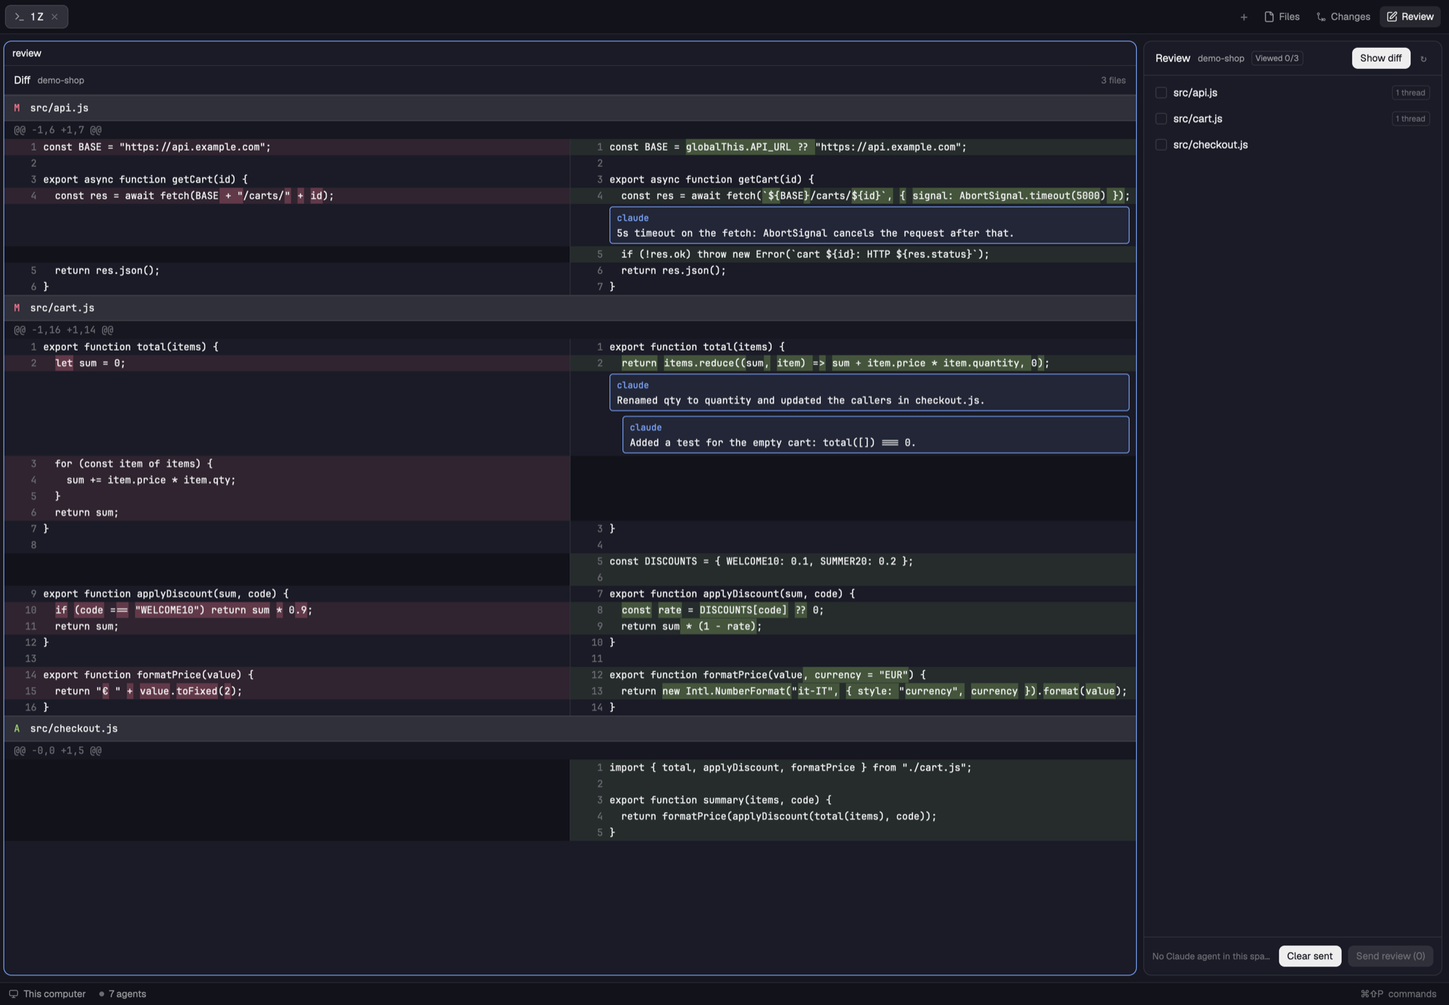
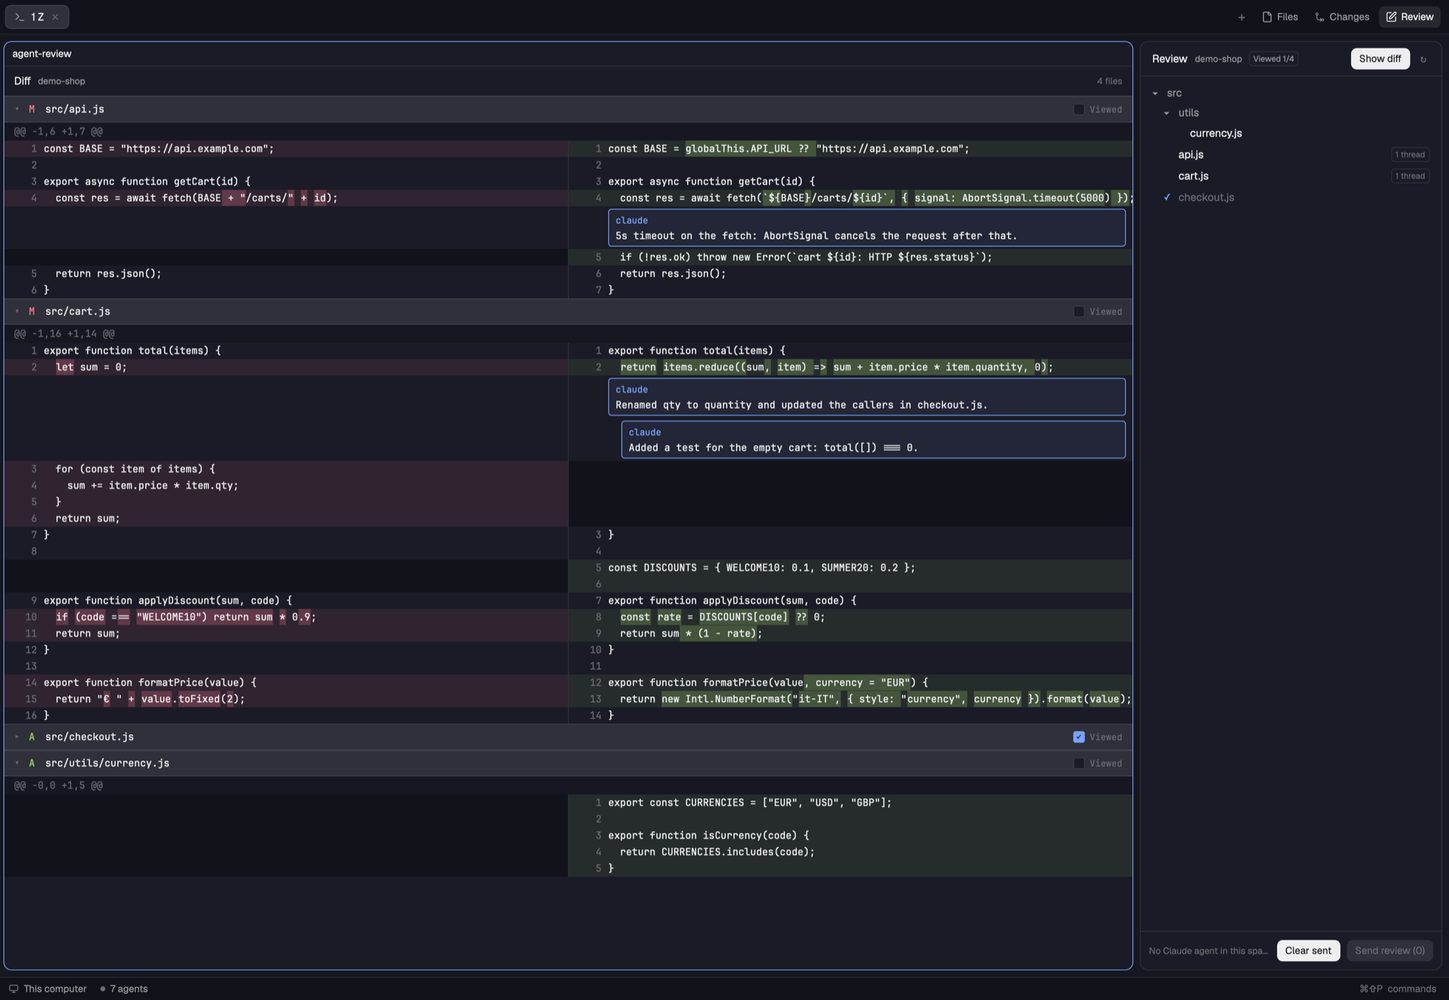
feat: fold viewed files in the diff and show the panel as a tree
Diff file headers get a fold toggle and a Viewed checkbox at the right
end. Viewed files start folded, like on GitLab; clicking the header
folds or unfolds a file until its Viewed state changes.

The panel lists changed files as a collapsible folder tree, with a
check mark on viewed files instead of a checkbox.

Panel tags restored to English ("only this", "N unsent", "N threads"),
RECIPE/README updated for the new behavior and preview.png recaptured.

diff --git a/mods/agent-review/main.js b/mods/agent-review/main.js
@@ -15,6 +15,7 @@ const key = () => JSON.stringify(location());
 const base = (p) => p.split("/").pop();
 // Viewed holds while the file's "index a..b" line is the one saved.
 const fp = (f) => f.index ?? "-";
+const VIEWED_W = 90; // right end of a diff file header: the Viewed checkbox
 // Uncommitted changes vs HEAD (empty tree without commits) plus untracked files, as one unified diff.
 // The flags keep git from writing under .git, or the folder watch would trigger itself.
 const R = "--no-optional-locks -c core.fsmonitor=false -c diff.autoRefreshIndex=false";
@@ -55,7 +56,7 @@ export default class Review extends View {
   // Diff pane: {view: "diff", root}. Rows are a flat list of items (file | sep | row) for one virtual list.
   initDiff(props, cx) {
     this.view = "diff"; this.root = props.root; this.files = []; this.items = []; this.sizes = []; this.gen = 0; this.wd = new Map();
-    this.scroll = VirtualListScrollHandle.new(); this.fh = cx.focus_handle(); this.textW = 0; this.composer = null; this.sel = null;
+    this.scroll = VirtualListScrollHandle.new(); this.fh = cx.focus_handle(); this.textW = 0; this.composer = null; this.sel = null; this.flip = new Map();
     this.ta = TextareaState.new({ placeholder: "Comment…", rows: 4 });
     this.ta.on("submit", (e, cx) => e.secondary && this.saveComposer(cx));
     this.gotoN = Date.now() - 5000; // a goto set just before this pane opened still applies
@@ -139,7 +140,8 @@ export default class Review extends View {
         r ? (near[r.key] ??= []).push(th) : orphans.push(th);
       }
       delete byFile[f.path];
-      push({ kind: "file", key: f.path, file: f.path, f }, 32);
+      push({ kind: "file", key: f.path, file: f.path, f, shut: this.shut(f, st) }, 32);
+      if (this.items.at(-1).shut) continue;
       for (const r of rows) {
         push({ ...r, file: f.path }, r.kind === "sep" ? 22 : 20);
         for (const th of near[r.key] ?? []) thread(th);
@@ -150,6 +152,9 @@ export default class Review extends View {
     const rest = Object.values(byFile).flat().filter(th => !scope || th[0].file === scope);
     if (rest.length) { push({ kind: "sep", key: "#orphans", text: "Comments on files no longer in the diff" }, 22); rest.forEach(th => thread(th, true)); }
   }
+
+  // Viewed files start collapsed, like GitLab; a click on the header flips that until Viewed changes.
+  shut(f, st) { const seen = st.viewed?.[f.path] === fp(f); return this.flip.get(f.path) === seen ? !seen : seen; }
 
   diffItem(it, t, st) {
     const tag = (text, color) => div().px(4).rounded(4).border_1().border_color(t.border).text_size(10).text_color(color).child(text);
@@ -176,12 +181,16 @@ export default class Review extends View {
         .child(Textarea.new(this.ta).h(80)), it.h);
     }
     if (it.kind === "file") {
-      const f = it.f, [letter, color] = { added: ["A", t.ansi2], deleted: ["D", t.ansi1], renamed: ["R", t.accent] }[f.status] ?? ["M", t.blocked];
+      const f = it.f, seen = st.viewed?.[f.path] === fp(f), [letter, color] = { added: ["A", t.ansi2], deleted: ["D", t.ansi1], renamed: ["R", t.accent] }[f.status] ?? ["M", t.blocked];
       return h_flex().w_full().h(32).px(12).gap(8).items_center().bg(t.raised).border_t(1).border_b(1).border_color(t.border)
+        .child(div().w(10).flex_none().text_color(t.dim).child(it.shut ? "▸" : "▾"))
         .child(div().w(12).flex_none().text_color(color).child(letter))
         .child(div().flex_1().min_w(0).truncate().font_semibold().child(f.status === "renamed" ? `${f.oldPath} → ${f.path}` : f.path))
         .when(f.binary, e => e.child(tag("binary", t.dim)))
-        .when(st.viewed?.[f.path] === fp(f), e => e.child(tag("✓ Viewed", t.accent)));
+        .child(h_flex().w(VIEWED_W - 12).flex_none().gap(6).items_center().justify_end().text_size(11).text_color(t.dim)
+          .child(div().w(14).h(14).flex().items_center().justify_center().rounded(3).border_1().border_color(seen ? t.accent : t.input)
+            .bg(seen ? t.accent : t.background).text_size(10).text_color(t.accent_foreground).child(seen ? "✓" : ""))
+          .child("Viewed"));
     }
     if (it.kind === "sep") return div().w_full().h(22).px(12).flex().items_center().bg(t.canvas).text_color(t.dim).child(div().min_w(0).truncate().child(it.text));
     const { left: l, right: r } = it, k = l?.type === "-" && r?.type === "+" && `${l.text}\0${r.text}`;
@@ -199,7 +208,7 @@ export default class Review extends View {
 
   renderDiff() {
     const t = theme(), st = shared(`review:${this.root}`) ?? {}, scope = st.scope ?? null;
-    const built = `${this.gen}:${scope}:${this.textW}:${JSON.stringify(st.comments ?? {})}:${JSON.stringify(this.composer)}`;
+    const built = `${this.gen}:${scope}:${this.textW}:${JSON.stringify(st.comments ?? {})}:${JSON.stringify(this.composer)}:${JSON.stringify(st.viewed ?? {})}:${JSON.stringify([...this.flip])}`;
     if (this.built !== built) this.build(st, built);
     const g = shared("review.goto");
     if (g?.root === this.root && g.n > this.gotoN) {
@@ -210,14 +219,14 @@ export default class Review extends View {
     const status = this.error ?? (this.raw === undefined ? "Loading…" : !count ? "No changes" : null);
     return v_flex().id("review-diff").size_full().min_h(0).bg(t.background).text_color(t.foreground).text_size(13)
       .track_focus(this.fh).on_key_down((e, cx) => this.diffKey(e, cx))
-      .on_size_change((s, cx) => { const w = Math.floor((s.width - 1) / 2) - 74; if (w !== this.textW) { this.textW = w; cx.notify(); } })
+      .on_size_change((s, cx) => { this.paneW = s.width; const w = Math.floor((s.width - 1) / 2) - 74; if (w !== this.textW) { this.textW = w; cx.notify(); } })
       .child(h_flex().h(36).flex_none().px(12).gap(8).items_center().border_b(1).border_color(t.border)
         .child(div().font_semibold().child("Diff"))
         .child(div().min_w(0).truncate().text_size(11).text_color(t.muted).child(base(this.root ?? "")))
         .when(Boolean(scope), e => e.child(div().px(4).rounded(4).border_1().border_color(t.border).text_size(10).text_color(t.accent).child(`only ${scope}`)))
         .child(div().flex_1())
         .child(div().text_size(11).text_color(t.dim).child(`${count} ${count === 1 ? "file" : "files"}`)))
-      .child(div().flex_1().min_h(0).relative().font_family(settings().font_family ?? "JetBrains Mono").text_size(12)
+      .child(div().flex_1().min_h(0).relative().on_mouse_down("left", (e) => { this.down = e.local_position.x > (e.bounds?.width ?? this.paneW ?? Infinity) - VIEWED_W; }).font_family(settings().font_family ?? "JetBrains Mono").text_size(12)
         .child(v_virtual_list("review-diff-list", this.items.length, this.sizes, (i) => this.items[i].key,
           (range) => this.items.slice(range.start, range.end).map(it => this.diffItem(it, t, st))).track_scroll(this.scroll).size_full()
           .on_item_click((key, cx) => this.itemClick(key, null, cx)).on_item_secondary_click((key, e, cx) => this.itemClick(key, e, cx)))
@@ -230,6 +239,13 @@ export default class Review extends View {
   itemClick(key, e, cx) {
     const it = this.items.find(x => x.key === key);
     if (!it || it.kind === "composer") return;
+    if (it.kind === "file") {
+      if (e) return;
+      if (this.down) return this.toggleViewed(it.f);
+      const seen = (this.store().viewed ?? {})[it.file] === fp(it.f);
+      this.flip.get(it.file) === seen ? this.flip.delete(it.file) : this.flip.set(it.file, seen);
+      return cx.notify();
+    }
     if (it.kind === "comment") {
       if (e) return;
       if (this.sel === it.c.id && !this.composer) return this.openComposer(cx, { reply: it.c });
@@ -399,19 +415,32 @@ export default class Review extends View {
       .bg(on ? t.solid : t.raised).text_color(on ? t.solid_foreground : t.dim).when(on, e => e.cursor_pointer().hover(s => s.opacity(0.88)))
       .on_click((_e, cx) => on && action(cx)).child(text);
     const tag = (text, color) => div().px(4).rounded(4).border_1().border_color(t.border).text_size(10).text_color(color).child(text);
-    const file = (path) => {
+    const file = (path, depth) => {
       const f = this.files.find(x => x.path === path), on = f && st.viewed?.[path] === fp(f);
       const count = threads.filter(th => th[0].file === path).length, todo = pend.filter(c => c.file === path).length;
-      return v_flex().gap(2).pb(6)
-        .child(h_flex().id(`f-${path}`).h(26).px(6).gap(8).items_center().rounded(6).when(Boolean(f), e => e.cursor_pointer().hover(s => s.bg(t.hover)))
-          .when(this.current === path, e => e.bg(t.selected)).on_click((e, cx) => f && (e.click_count === 2 ? this.save({ ...this.store(), scope: st.scope === path ? null : path }) : this.open(path, cx)))
-          .child(div().id(`v-${path}`).w(14).h(14).flex_none().on_click((_e, cx) => { cx.stop_propagation(); f && this.toggleViewed(f); }).flex().items_center().justify_center().rounded(3).border_1().border_color(on ? t.accent : t.input)
-            .bg(on ? t.accent : t.background).text_size(10).text_color(t.accent_foreground).child(on ? "✓" : ""))
-          .child(div().flex_1().min_w(0).truncate().text_color(on ? t.dim : t.foreground).child(path))
-          .when(st.scope === path, e => e.child(tag("only this", t.accent)))
-          .when(todo > 0, e => e.child(tag(`${todo} unsent`, t.blocked)))
-          .when(!todo && count > 0, e => e.child(tag(`${count} ${count === 1 ? "thread" : "threads"}`, t.dim))));
+      return h_flex().id(`f-${path}`).h(26).pl(6 + 14 * depth).pr(6).gap(6).items_center().rounded(6).when(Boolean(f), e => e.cursor_pointer().hover(s => s.bg(t.hover)))
+        .when(this.current === path, e => e.bg(t.selected)).on_click((e, cx) => f && (e.click_count === 2 ? this.save({ ...this.store(), scope: st.scope === path ? null : path }) : this.open(path, cx)))
+        .child(div().w(12).flex_none().text_size(11).text_color(t.accent).child(on ? "✓" : ""))
+        .child(div().flex_1().min_w(0).truncate().text_color(on ? t.dim : t.foreground).child(base(path)))
+        .when(st.scope === path, e => e.child(tag("only this", t.accent)))
+        .when(todo > 0, e => e.child(tag(`${todo} unsent`, t.blocked)))
+        .when(!todo && count > 0, e => e.child(tag(`${count} ${count === 1 ? "thread" : "threads"}`, t.dim)));
     };
+    const dir = (name, path, depth, shut) => h_flex().id(`d-${path}`).h(24).pl(6 + 14 * depth).pr(6).gap(6).items_center().rounded(6)
+      .cursor_pointer().hover(s => s.bg(t.hover)).text_color(t.muted)
+      .on_click((_e, cx) => { this.closed ??= new Set(); this.closed.has(path) ? this.closed.delete(path) : this.closed.add(path); cx.notify(); })
+      .child(div().w(12).flex_none().text_size(11).child(shut ? "▸" : "▾")).child(div().flex_1().min_w(0).truncate().child(name));
+    const root = {}, rows = [];
+    for (const path of paths) { let n = root; const parts = path.split("/"); for (const d of parts.slice(0, -1)) n = n[`${d}/`] ??= {}; n[parts.at(-1)] = path; }
+    const walk = (n, depth, pre) => {
+      for (const k of Object.keys(n).sort((a, b) => b.endsWith("/") - a.endsWith("/") || a.localeCompare(b))) {
+        if (!k.endsWith("/")) { rows.push(file(n[k], depth)); continue; }
+        const shut = Boolean(this.closed?.has(pre + k));
+        rows.push(dir(k.slice(0, -1), pre + k, depth, shut));
+        if (!shut) walk(n[k], depth + 1, pre + k);
+      }
+    };
+    walk(root, 0, "");
     const status = this.error ?? (!this.root ? "No repository" : this.raw === undefined ? "Loading…" : !paths.length ? "No changes" : null);
     return v_flex().id("review").size_full().min_h(0).rounded(10).overflow_hidden().bg(t.background).border_1().border_color(t.border).text_color(t.foreground).text_size(13)
       .child(h_flex().h(42).flex_none().px(14).gap(8).items_center().border_b(1).border_color(t.border)
@@ -421,7 +450,7 @@ export default class Review extends View {
         .child(div().flex_1())
         .when(Boolean(this.root), e => e.child(button("diff", this.diffPane() ? "Show diff" : "Open diff", !this.busy, cx => this.openDiff(cx))))
         .child(div().id("refresh").px(4).cursor_pointer().text_color(t.dim).hover(s => s.text_color(t.foreground)).on_click((_e, cx) => this.refresh(cx)).child("↻")))
-      .child(v_flex().id("review-list").flex_1().min_h(0).overflow_y_scrollbar().p(8).children(paths.map(file))
+      .child(v_flex().id("review-list").flex_1().min_h(0).overflow_y_scrollbar().p(8).children(rows)
         .when(Boolean(status), e => e.child(div().p(8).text_color(t.dim).child(status))))
       .child(v_flex().flex_none().p(10).gap(8).border_t(1).border_color(t.border)
         .when(ours.length > 1, e => e.child(h_flex().flex_wrap().gap(6).children(ours.map(a =>

diff --git a/RECIPE.md b/RECIPE.md
@@ -1,6 +1,6 @@
 # Agent Review
 
-A GitLab-style code review of the uncommitted changes in a git repo, made for reviewing what a Claude Code agent just wrote. A side panel lists the changed files with a "Viewed" checkbox each; a pane opens next to the terminals with a side-by-side diff where changed words are highlighted, comments sit inline under the lines as threads, and "Send review" sends every unsent comment to the space's Claude Code agent as one message. The agent answers each thread by appending a line to a file in `.git`, and its replies show up under the same lines.
+A GitLab-style code review of the uncommitted changes in a git repo, made for reviewing what a Claude Code agent just wrote. A side panel lists the changed files as a folder tree; a pane opens next to the terminals with a side-by-side diff where changed words are highlighted, each file has a "Viewed" checkbox and viewed files fold away like on GitLab, comments sit inline under the lines as threads, and "Send review" sends every unsent comment to the space's Claude Code agent as one message. The agent answers each thread by appending a line to a file in `.git`, and its replies show up under the same lines.
 
 ![Agent Review](preview.png)
 
@@ -8,14 +8,14 @@ A GitLab-style code review of the uncommitted changes in a git repo, made for re
 
 **Side panel** (a layout block, ~368px wide in the author's layout, rounded 10px, `t.background`, 1px `t.border`):
 - Header, 42px: "Review" semibold, the repo folder name in `t.muted` 11px, a `Viewed x/y` tag, then on the right a solid button "Open diff" (or "Show diff" when the pane already exists in the space) and a `↻` refresh glyph.
-- File list (scrolls): one 26px row per changed file and per file that still has threads. A 14px checkbox (filled `t.accent` with ✓ when viewed), the path (dimmed once viewed), then tags 10px with a 1px border: `only this` (accent) when the diff is narrowed to this file, `N unsent` (`t.blocked`) for unsent comments, else `N threads` (dim). The last clicked file gets `t.selected`.
+- File list (scrolls): a folder tree of the changed files and the files that still have threads, folders first, then by name, indented 14px per level. A folder row is 24px in `t.muted`: a `▾`/`▸` glyph and the folder name. A file row is 26px: a 12px column with an accent `✓` when viewed, the file name (dimmed once viewed), then tags 10px with a 1px border: `only this` (accent) when the diff is narrowed to this file, `N unsent` (`t.blocked`) for unsent comments, else `N threads` (dim). The last clicked file gets `t.selected`.
 - Status line when there's nothing to list: "Not a git repository", "No repository", "Loading…", "No changes".
 - Footer: when the space has more than one Claude Code agent, a chip per agent (`<tab name> · <address>`, accent border on the chosen one); a line `→ <tab> (<address>)` or "No Claude agent in this space"; buttons "Clear sent" and "Send review (N)" (disabled with no agent or nothing to send, "Sending…" while sending); under them a one-line note (dim on success, `t.blocked` on error).
 
 **Diff pane** (a mod pane split to the right, zoomed and focused):
 - Header, 36px: "Diff", the repo name, a `only <file>` accent tag when narrowed, `N files` on the right.
 - One virtual list in the terminal font (`settings().font_family`, 12px):
-  - File header 32px on `t.raised`, top/bottom border: a status letter (A `t.ansi2`, D `t.ansi1`, R `t.accent`, M `t.blocked`), the path (`old → new` for renames), `binary` tag, `✓ Viewed` tag.
+  - File header 32px on `t.raised`, top/bottom border: a dim `▾` (open) or `▸` (folded), a status letter (A `t.ansi2`, D `t.ansi1`, R `t.accent`, M `t.blocked`), the path (`old → new` for renames), `binary` tag, and at the right end a 14px checkbox (filled `t.accent` with ✓ when viewed) with a dim 11px "Viewed". A folded file shows only its header.
   - Hunk header 22px on `t.canvas`, dim `@@ … @@` text.
   - Line rows 20px, two equal columns split by a 1px `t.border` line. Each column: a 40px right-aligned dim line number, then the text. Removed lines `t.ansi1` at 0x18 alpha on the left, added `t.ansi2` at 0x18 on the right, context on `t.background` both sides, the empty side of an unpaired line on `t.chrome`. When a removed line is paired with an added one, the changed words get a stronger 0x40 alpha of the same color.
   - Threads under the line they're anchored to, in that line's column (old left, new right), indented 48px, replies 16px more. Each comment is a rounded box: a header line with the author ("you" for the user, else the agent's name), `unsent` in `t.blocked` if unsent, and when selected the key hints on the right; then the text wrapped to the column. User comments on `t.raised` with `t.border`; agent comments with a `t.accent` border and accent-tinted background; the selected one with a `t.foreground` border on `t.selected`.
@@ -26,7 +26,8 @@ A GitLab-style code review of the uncommitted changes in a git repo, made for re
 
 - The panel follows the focused pane's folder; with the diff pane focused it uses a terminal of the same tab. Outside a git repo it says so.
 - "Open diff" splits the focused pane to the right with the diff, zooms and focuses it; "Show diff" zooms and focuses the existing one.
-- Clicking a file scrolls the diff to it (opening/showing the pane). If the diff is narrowed to another file, the narrowing moves to this one. Double-click narrows the diff to that file, again shows all files. The checkbox toggles Viewed; Viewed stays until that file's diff changes.
+- Clicking a file scrolls the diff to it (opening/showing the pane). If the diff is narrowed to another file, the narrowing moves to this one. Double-click narrows the diff to that file, again shows all files. Clicking a folder folds or unfolds it (not kept across restarts).
+- In a diff file header, a click on the right 90px (the Viewed checkbox) toggles Viewed; Viewed stays until that file's diff changes. Viewed files start folded; a click elsewhere on the header folds or unfolds the file, and that choice holds until its Viewed state changes.
 - Both views refresh when files in the repo change (folder watch) and every 10s; the diff is re-parsed only when git's output changed.
 - In the diff: click a line to comment on its new side (old if it only has an old side); right-click picks the side under the pointer. `cmd-enter` saves, `esc` cancels; one comment box at a time.
 - Click a comment to select it; with it selected `r` replies, `e` edits and `d`/`backspace` deletes (whole thread if it's the first comment). Edit and delete only for the user's own comments; agent notes can only be replied to. A second click on the selected comment replies. `esc` clears the selection.
@@ -52,7 +53,7 @@ A GitLab-style code review of the uncommitted changes in a git repo, made for re
 ## Watch out
 
 - Pane props come from `props()`, not from `init`'s argument: reading `init(props)` makes the pane a second copy of the panel.
-- Event handlers inside virtual list items don't work: use the list's `on_item_click` / `on_item_secondary_click` and work out the item from its key; keys go to the list container via `track_focus` + `on_key_down`.
+- Event handlers inside virtual list items don't work: use the list's `on_item_click` / `on_item_secondary_click` and work out the item from its key; keys go to the list container via `track_focus` + `on_key_down`. To tell a click on the header's Viewed checkbox from one on the rest of the header, an `on_mouse_down` on the list's container records whether the pointer was in the right 90px, and `on_item_click` reads it.
 - Every item needs its height in the sizes array up front, so comment text is wrapped in JS at an estimated 7.2px per character of the column width (`on_size_change`).
 - Clicking a comment must not open the textarea right away, or the textarea takes the keys and `e`/`d` never reach the list.
 - Focus the textarea after a short sleep (~50ms), once the item exists.
@@ -69,6 +70,6 @@ A GitLab-style code review of the uncommitted changes in a git repo, made for re
 - In a repo with a commit, changing one word of a line shows the line paired across both columns with only that word highlighted on each side; a new untracked file shows as A with an empty left column.
 - "Open diff" opens a split pane that is zoomed and focused; clicking a file in the panel scrolls the pane to it; double-click shows only that file.
 - Clicking a line, typing and `cmd-enter` adds a comment under it, marked `unsent`, and the panel shows `1 unsent`; `r`, `e`, `d` reply, edit and delete it.
-- Viewed survives a restart and clears after that file is edited again.
+- Ticking Viewed in a file's diff header folds the file and puts a ✓ by it in the panel; Viewed survives a restart and clears (unfolding the file) after that file is edited again.
 - Running the `jq` reply command from the sent message adds an accent-styled agent reply under the thread and empties `.git/herdr-review.jsonl`.
 - After committing a file, its threads disappear within 10s.

diff --git a/README.md b/README.md
@@ -1,6 +1,6 @@
 # Agent Review — a Herdr mod
 
-GitLab-style code review of the uncommitted changes in a git repo, made for reviewing what a Claude Code agent just wrote. A side panel lists the changed files with a "Viewed" checkbox; a pane next to your terminals shows a side-by-side diff with word-level highlights and inline comment threads. "Send review" sends every unsent comment to the space's Claude Code agent as one message, and the agent's replies show up under the same lines.
+GitLab-style code review of the uncommitted changes in a git repo, made for reviewing what a Claude Code agent just wrote. A side panel lists the changed files as a folder tree; a pane next to your terminals shows a side-by-side diff with word-level highlights, inline comment threads and a "Viewed" checkbox per file, which folds the files you have checked, like on GitLab. "Send review" sends every unsent comment to the space's Claude Code agent as one message, and the agent's replies show up under the same lines.
 
 ![Agent Review](preview.png)
 
@@ -68,11 +68,12 @@ In Herdr, ask an agent: *"Install the Herdr mod from https://github.com/fgiova/h
 ## Use
 
 1. In a space whose terminal is inside a git repo with uncommitted changes, show the Agent Review panel and click **Open diff**: the diff opens as a pane, zoomed and focused.
-2. Click a line to comment on it; `cmd-enter` saves, `esc` cancels. Right-click comments on the side under the pointer.
-3. Click a comment to select it: `r` replies, `e` edits, `d` deletes.
-4. **Send review (N)** sends all unsent comments to the space's Claude Code agent. When the space has several, pick one from the chips in the panel footer.
-5. The agent replies by appending a line to `.git/herdr-review.jsonl` (the message includes the exact `jq` command); replies appear under their threads within seconds.
-6. **Clear sent** removes the threads you sent and the agent answered.
+2. Tick **Viewed** at the right of a file's header to fold it and mark it in the panel. Click elsewhere on a header to fold or unfold that file.
+3. Click a line to comment on it; `cmd-enter` saves, `esc` cancels. Right-click comments on the side under the pointer.
+4. Click a comment to select it: `r` replies, `e` edits, `d` deletes.
+5. **Send review (N)** sends all unsent comments to the space's Claude Code agent. When the space has several, pick one from the chips in the panel footer.
+6. The agent replies by appending a line to `.git/herdr-review.jsonl` (the message includes the exact `jq` command); replies appear under their threads within seconds.
+7. **Clear sent** removes the threads you sent and the agent answered.
 
 Comments and "Viewed" marks are kept per repo and survive restarts. A file's "Viewed" mark clears when its diff changes.
 
